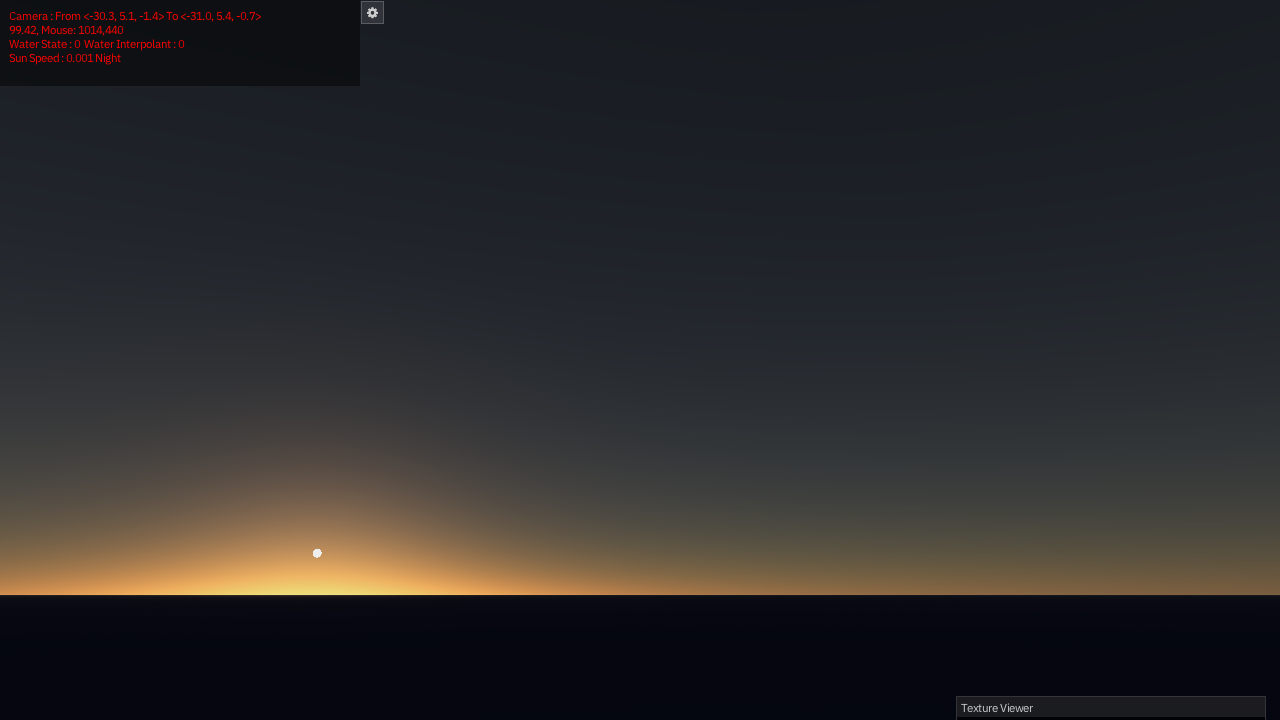
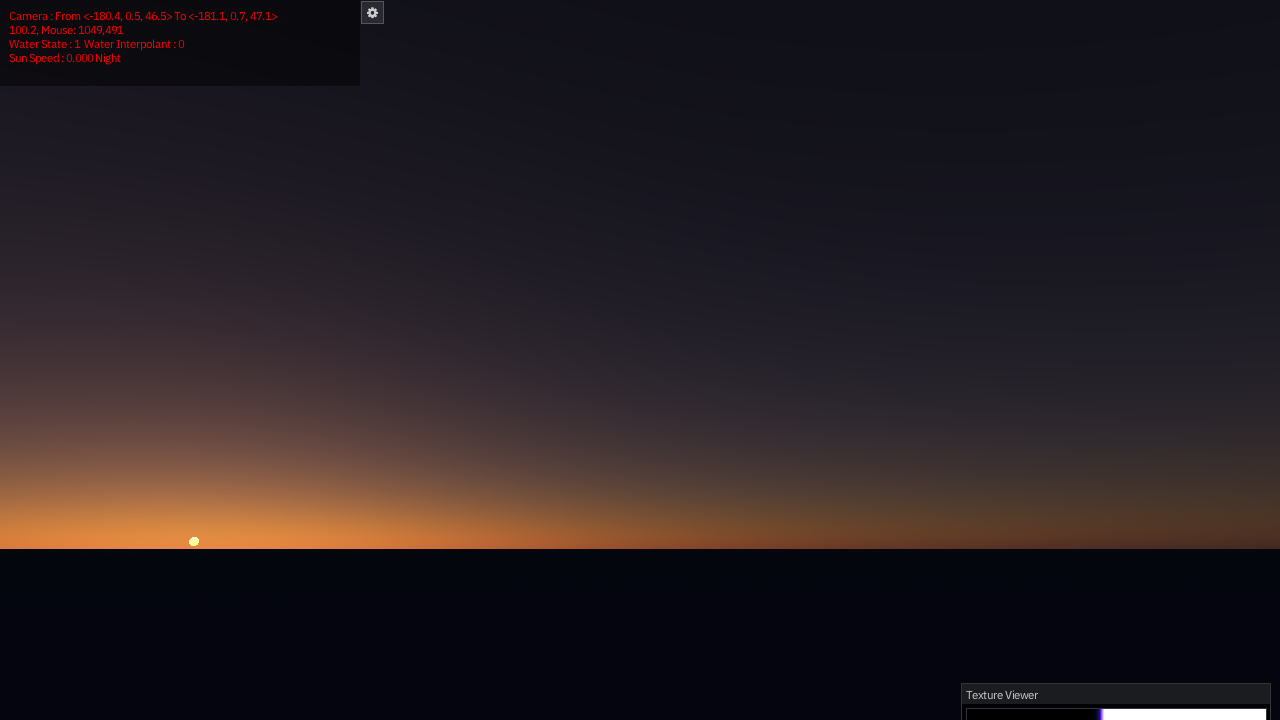
Modified some atmosphere parameters for a more pleasing sky/sun.

diff --git a/src/atmosphere.cpp b/src/atmosphere.cpp
@@ -233,18 +233,18 @@ namespace Atmosphere
 
     static const real32 kLengthUnitInMeters = 1000.f;
     static const real32 kRayleighScaleHeight = 8000.f;
-    static const real32 kRayleigh = 1.24062e-6f;
+    static const real32 kRayleigh = 1.04062e-6f; // orig 1.24062e-6
     static const real32 kMieScaleHeight = 1200.f;
     static const real32 kMieAngstromAlpha = 0.f;
-    static const real32 kMieAngstromBeta = 5.328e-3f;
+    static const real32 kMieAngstromBeta = 2.028e-2f; // orig 5.328e-3
     static const real32 kMieSingleScatteringAlbedo = 0.9f;
-    static const real32 kDobsonUnit = 5.687e20f; // From wiki, in molecules.m^-2
+    static const real32 kDobsonUnit = 5.687e20f; // From wiki, in molecules.m^-2 // orig 5.687e20
     static const real32 kMaxOzoneNumberDensity = 300.f * kDobsonUnit / 15000.f; // Max nb density of ozone molecules in m^-3, 300 DU integrated over the ozone density profile (15km)
-    static const real32 kGroundAlbedo = 0.1;//001012f;
+    static const real32 kGroundAlbedo = 0.05; // orig 0.1
     static const real32 kSunAngularRadius = 0.004675f;
     static const real32 kMoonAngularRadius = 0.018;//0.004509f;
     static const real32 kSunSolidAngle = M_PI * kSunAngularRadius * kSunAngularRadius;
-    static const real32 kMiePhaseG = USE_MOON ? 0.93 : 0.85;
+    static const real32 kMiePhaseG = USE_MOON ? 0.93 : 0.70;
     static const real32 kMaxSunZenithAngle = DEG2RAD * 120.f;
 
     static vec3f ScatteringSpectrumToSRGB(real32 const *Wavelengths, real32 const *WavelengthFunctions, int N, real32 Scale)
